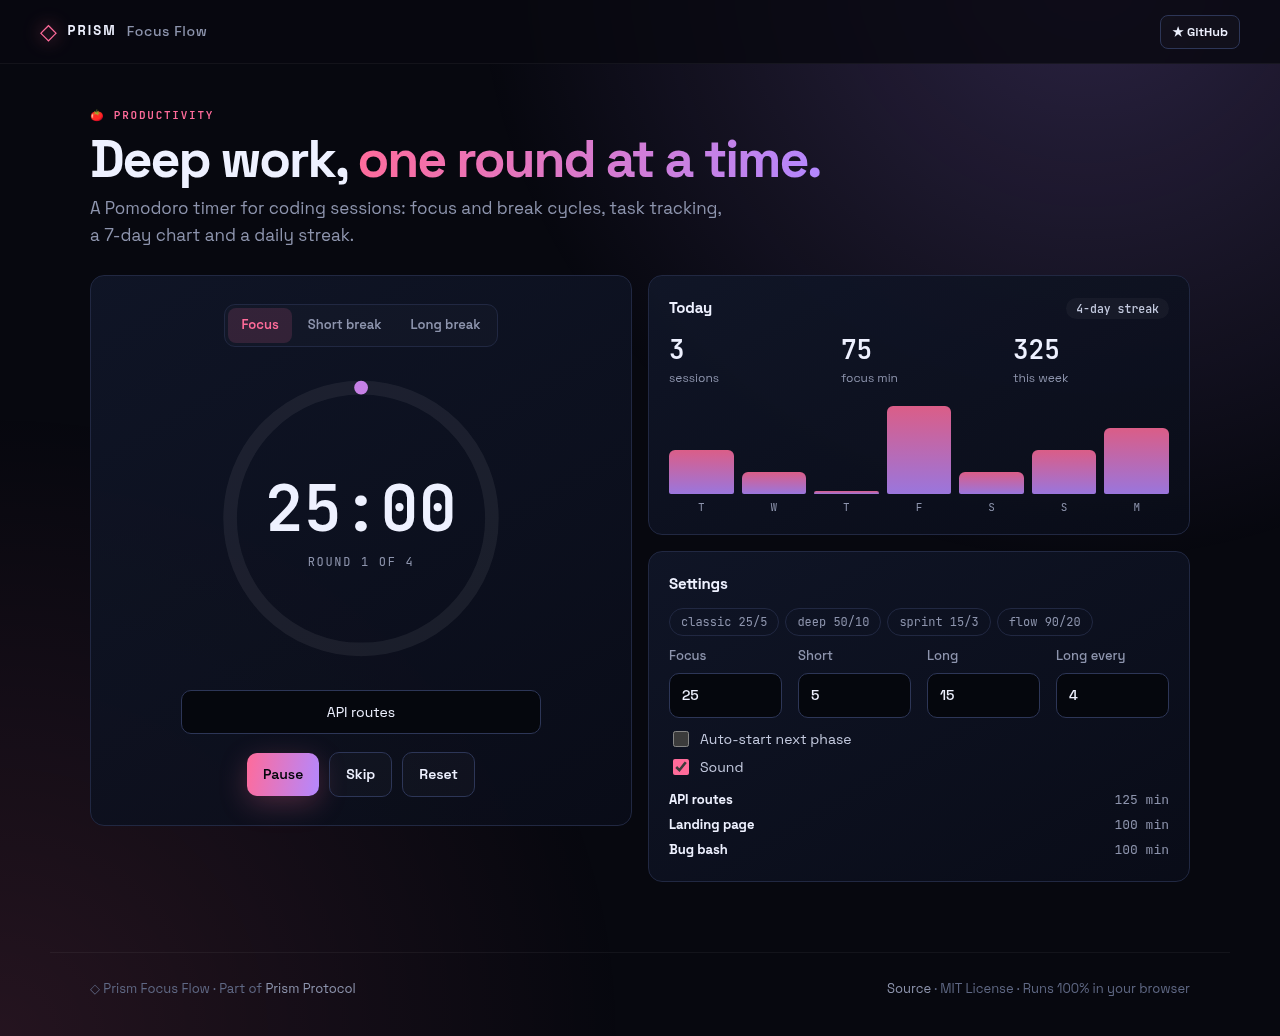
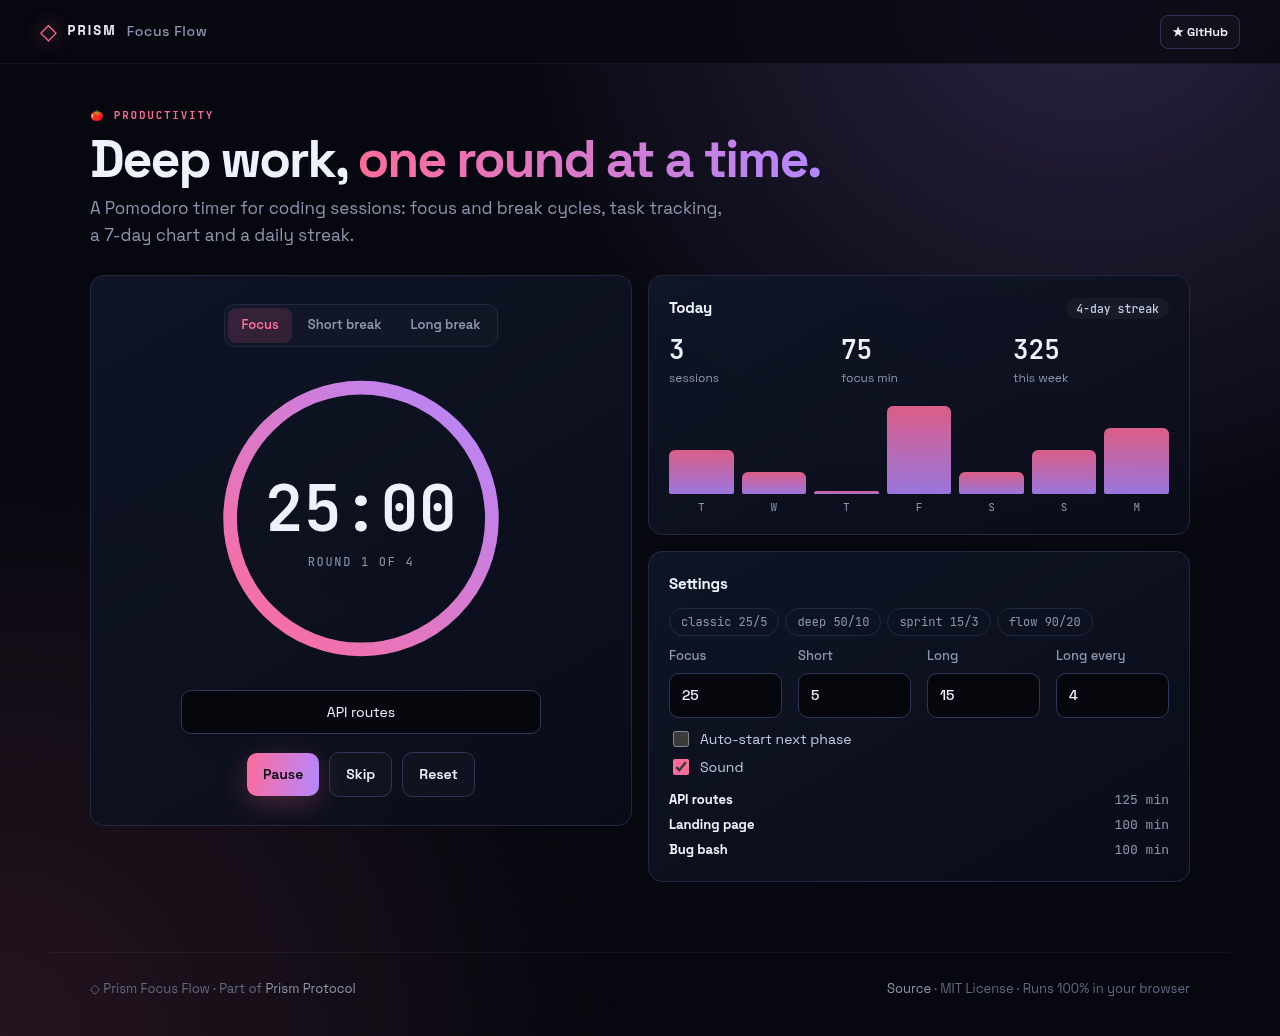
chore: update

Changed region(s): [[0.1562, 0.4015, 0.375, 0.6486], [0.3438, 0.4015, 0.4062, 0.556], [0.2188, 0.3707, 0.3438, 0.4015]]

diff --git a/css/app.css b/css/app.css
@@ -1,7 +1,7 @@
 .ff{align-items:start}.stack{display:flex;flex-direction:column;gap:16px;min-width:0}
 .timer{display:flex;flex-direction:column;align-items:center;gap:18px;padding:28px}
 .ring{position:relative;width:min(300px,80vw);aspect-ratio:1}.ring svg{width:100%;height:100%;transform:rotate(-90deg)}
-.trk{fill:none;stroke:#ffffff10;stroke-width:10}.prog{fill:none;stroke:url(#rg);stroke-width:10;stroke-linecap:round;stroke-dasharray:603.2;stroke-dashoffset:603.2;transition:stroke-dashoffset .4s linear}
+.trk{fill:none;stroke:#ffffff10;stroke-width:10}.prog{fill:none;stroke:url(#rg);stroke-width:10;stroke-linecap:round;stroke-dasharray:603.2;stroke-dashoffset:0;transition:stroke-dashoffset .4s linear}
 .t{position:absolute;inset:0;display:flex;flex-direction:column;align-items:center;justify-content:center;gap:4px}.t b{font:700 clamp(44px,9vw,64px) var(--mono);font-variant-numeric:tabular-nums}.t span{font:12px var(--mono);color:var(--muted);letter-spacing:.14em;text-transform:uppercase}
 .task{text-align:center;max-width:360px}.ctrls{justify-content:center}
 .kp>div{display:flex;flex-direction:column;gap:2px}.kp b{font:700 26px var(--mono)}.kp span{font-size:12px;color:var(--muted)}

diff --git a/js/app.js b/js/app.js
@@ -17,7 +17,7 @@
   }
   function draw() {
     const r = remaining(); if (S.endsAt && r <= 0) return finish();
-    $("#time").textContent = Core.fmt(r); $("#prog").style.strokeDashoffset = 603.2 * (r / total());
+    $("#time").textContent = Core.fmt(r); $("#prog").style.strokeDashoffset = 603.2 * (1 - r / total());
     $("#round").textContent = S.phase === "focus" ? `Round ${(S.done % cfg.every) + 1} of ${cfg.every}` : S.phase === "long" ? "Long break" : "Short break";
     $$("#phase button").forEach((b) => b.classList.toggle("on", b.dataset.v === S.phase));
     $("#go").textContent = S.endsAt ? "Pause" : r < total() ? "Resume" : "Start";

diff --git a/README.md b/README.md
@@ -78,6 +78,7 @@ prism-focus-flow/
 │   └── core.test.js
 ├── .gitignore
 ├── LICENSE
+├── README.md
 ├── index.html
 └── package.json
 ```
